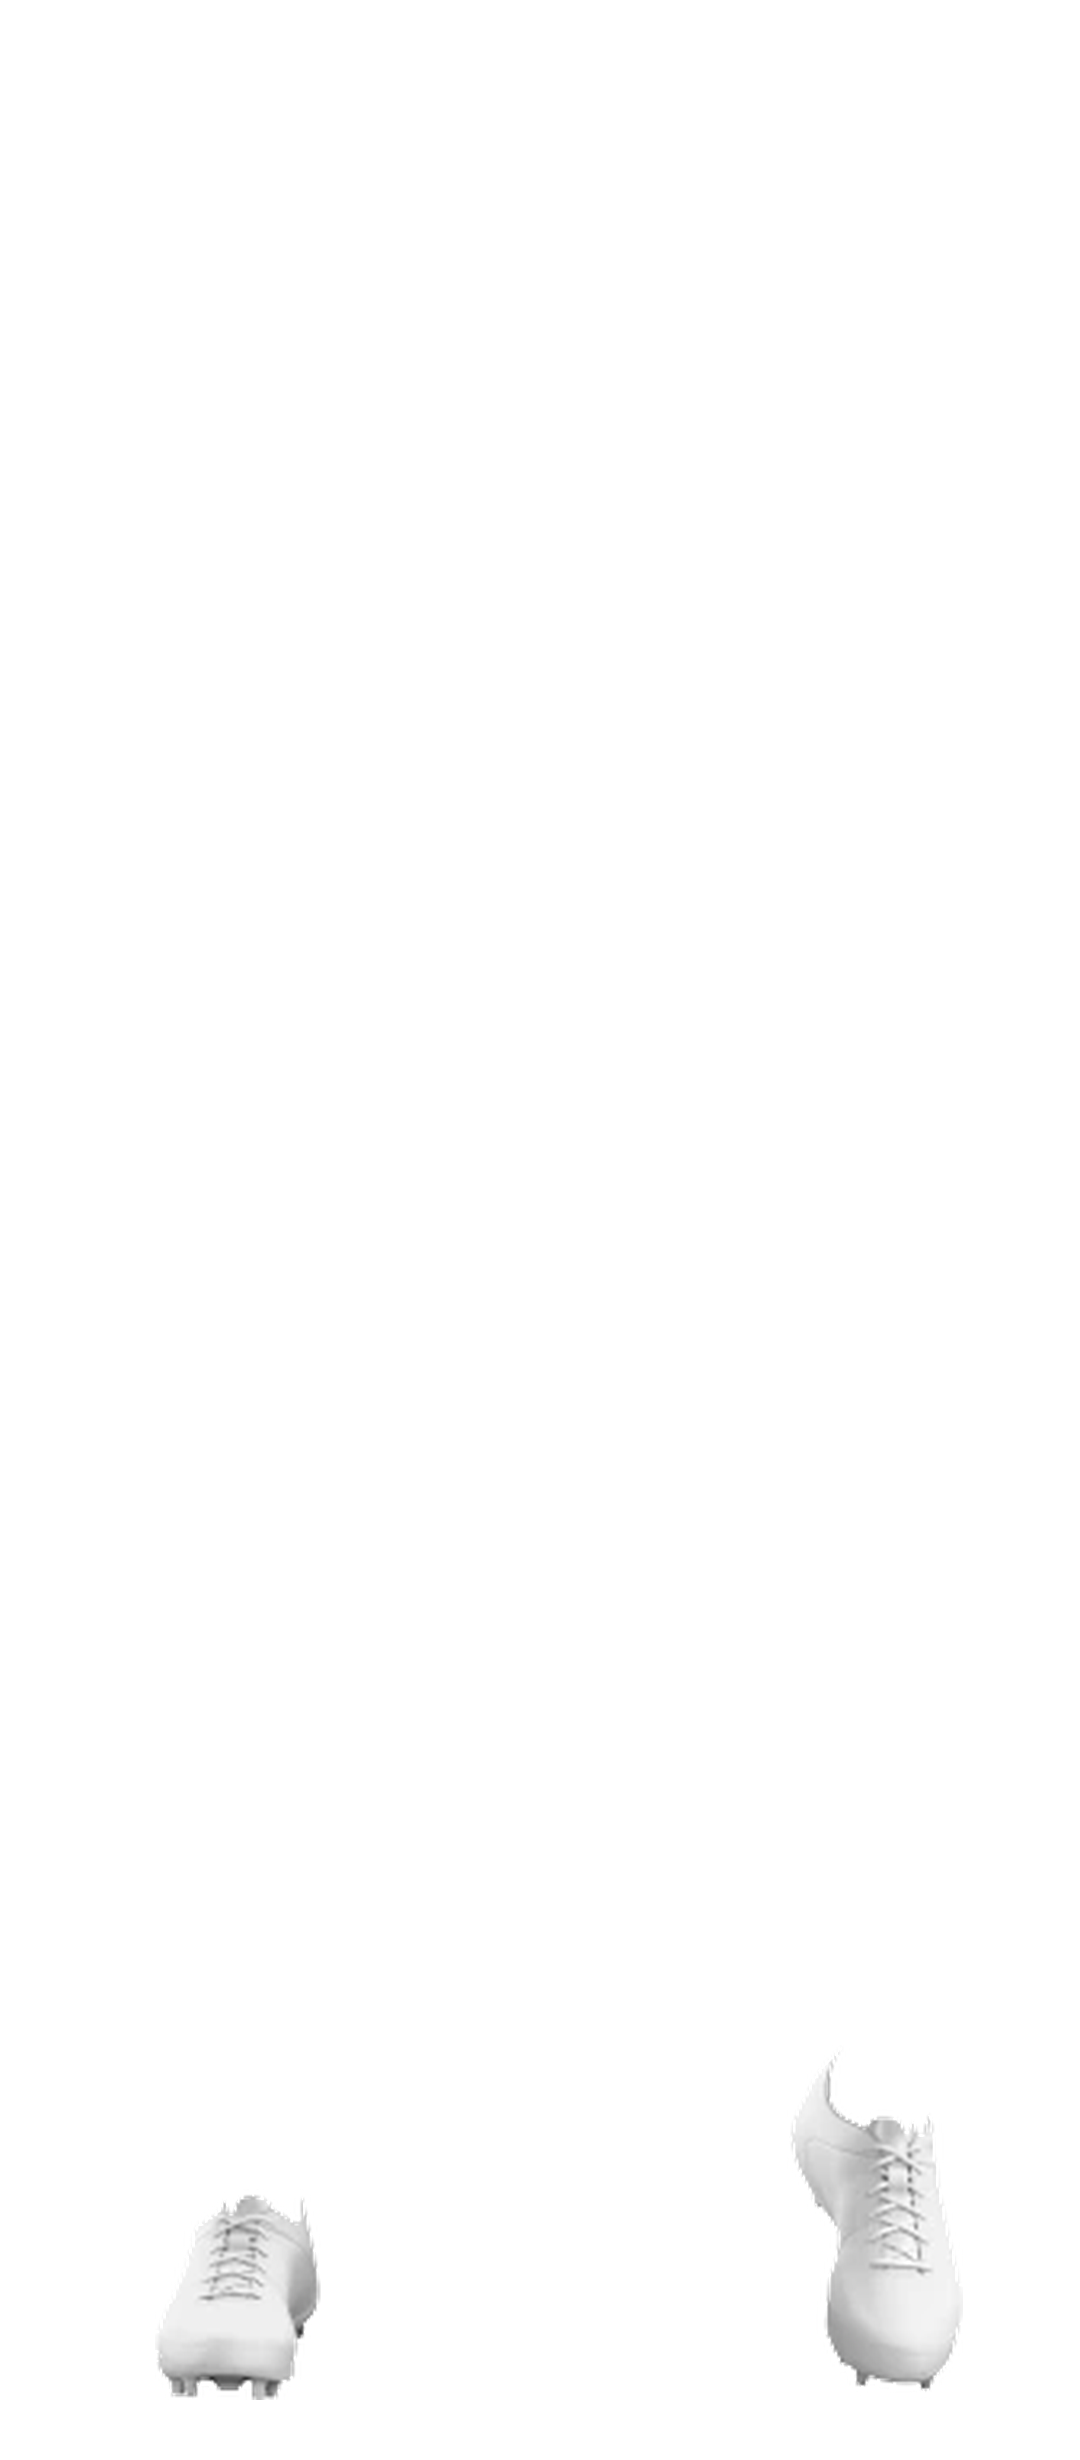
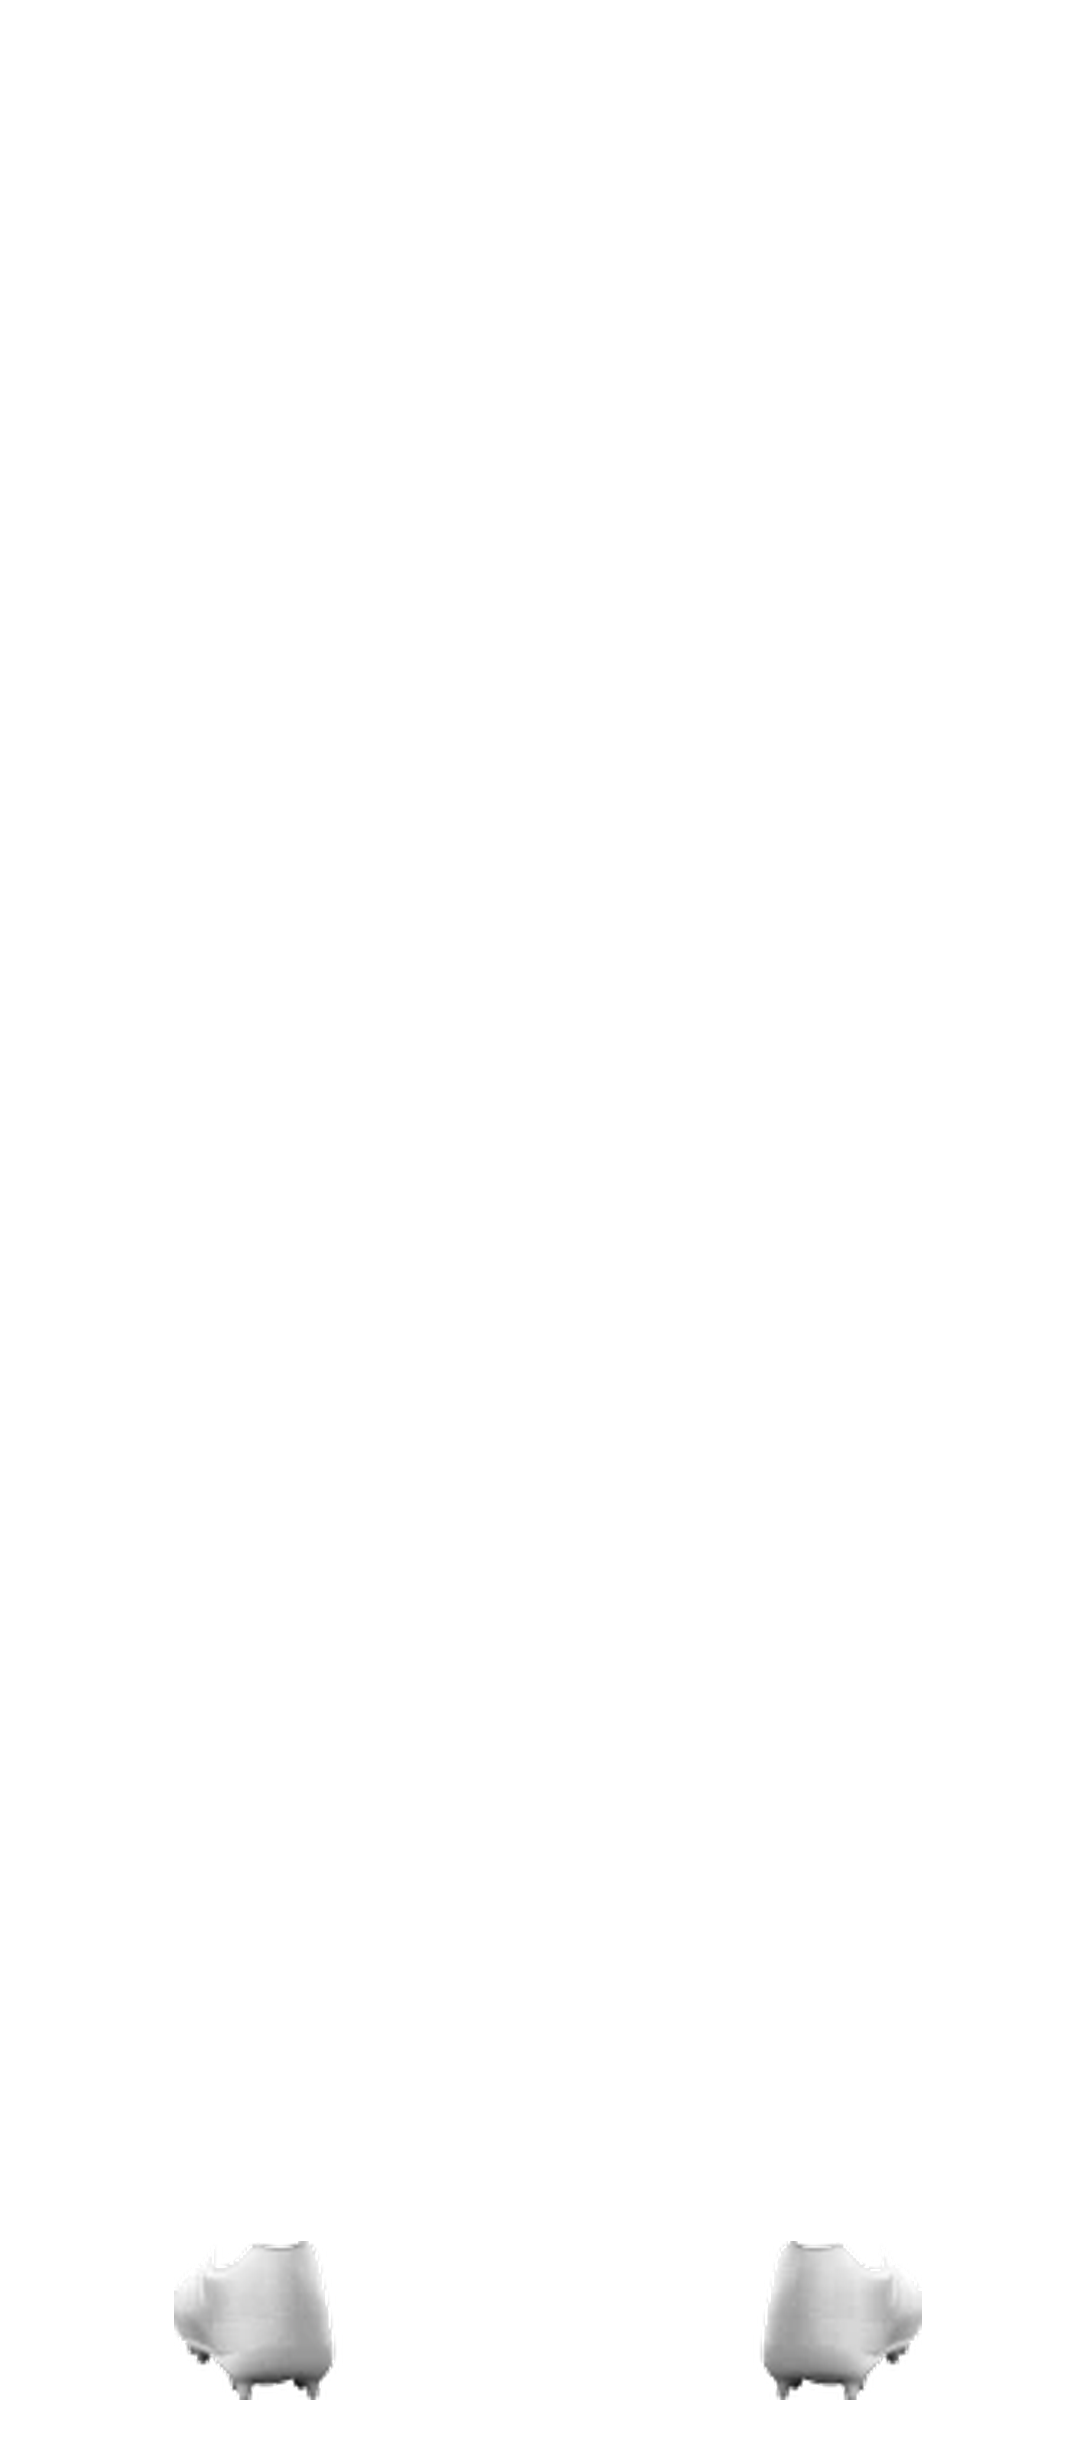
Botas de costas originais; meias do verso entram nos calcanhares

Changed region(s): [[0.7028, 0.8341, 0.8861, 0.9886], [0.1528, 0.8959, 0.3056, 0.9886]]

diff --git a/scripts/montar-originais.py b/scripts/montar-originais.py
@@ -73,7 +73,12 @@ def montar(pasta, lado):
         im = escalar(carregar(pasta, peca + sufixo))
         tela = Image.new('RGBA', (W, H), (0, 0, 0, 0))
         x0 = round(135 * M - im.width / 2)
-        y0 = TOPOS[peca] * M
+        topo = TOPOS[peca]
+        # o par de botas do verso é raso (só calcanhares): as meias do
+        # verso descem um pouco para entrar neles
+        if peca == 'meiao' and lado == 'verso':
+            topo += 15
+        y0 = topo * M
         tela.alpha_composite(im, (x0, y0))
         nome_peca = 'camisola' if peca == 'camisa' else peca
         tela.save(f'public/moldes/vestida-{nome_peca}-{lado}.png')
@@ -90,11 +95,9 @@ def montar(pasta, lado):
             print(f'   caixa estampa {lado}: x={xs.min()}, y={cy}, '
                   f'w={xs.max() - xs.min()}, h={y0 + im.height - cy}')
 
-    # botas (sem detalhe_verso.webp, o par de frente serve os dois lados):
-    # na composição original só a bota DE PÉ recebe uma meia; a inclinada é
-    # um adereço pousado ao lado. O par entra INTEIRO (composição intacta),
-    # ancorado pela abertura da bota de pé ao tornozelo da meia esquerda,
-    # com os fundos na linha de chão.
+    # botas: cada lado usa o SEU par original (detalhe / detalhe_verso),
+    # inteiro — composição intacta — ancorado pela abertura da primeira
+    # bota ao tornozelo da meia esquerda, fundos na linha de chão.
     tela_meiao, im_meiao, mx0, my0 = telas['meiao']
     am = np.array(im_meiao.getchannel('A'))
     b1 = blocos(im_meiao)[0]
@@ -104,7 +107,7 @@ def montar(pasta, lado):
     xs = np.where((col[alto:ys[-1] + 1] > 40).any(axis=0))[0]
     tornozelo = mx0 + b1[0] + (xs[0] + xs[-1]) / 2
 
-    par = escalar(carregar(pasta, 'detalhe'))
+    par = escalar(carregar(pasta, 'detalhe' + sufixo))
     bp = blocos(par)[0]
     ap = np.array(par.getchannel('A'))
     colp = ap[:, bp[0]:bp[-1] + 1]
@@ -114,34 +117,11 @@ def montar(pasta, lado):
     abertura = bp[0] + (xsp[0] + xsp[-1]) / 2
 
     tela = Image.new('RGBA', (W, H), (0, 0, 0, 0))
-    if lado == 'frente':
-        # par inteiro: a composição original já casa com as meias da frente
-        x0 = round(tornozelo - abertura)
-        y0 = 600 * M - par.height
-        tela.alpha_composite(par, (x0, y0))
-        print(f'botas-{lado}: par em ({x0},{y0})')
-    else:
-        # as meias do verso são mais abertas que a composição do par:
-        # divide-se (posições apenas) — bota de pé no tornozelo esquerdo,
-        # bota inclinada com a abertura sob a meia direita, ambas no chão
-        cold = am[:, blocos(im_meiao)[1][0]:blocos(im_meiao)[1][-1] + 1]
-        ysd = np.where((cold > 40).any(axis=1))[0]
-        altod = int(ysd[-1] - (ysd[-1] - ysd[0]) * 0.10)
-        xsd = np.where((cold[altod:ysd[-1] + 1] > 40).any(axis=0))[0]
-        tornozelo_dir = mx0 + blocos(im_meiao)[1][0] + (xsd[0] + xsd[-1]) / 2
-
-        alvos_x = (tornozelo, tornozelo_dir)
-        for b, alvo_x in zip(blocos(par), alvos_x):
-            bota = par.crop((b[0], 0, b[-1] + 1, par.height))
-            bota = bota.crop(bota.getchannel('A').getbbox())
-            ab = np.array(bota.getchannel('A'))
-            topo_b = ab[:max(int(ab.shape[0] * 0.15), 4)]
-            xsb = np.where((topo_b > 40).any(axis=0))[0]
-            x0 = round(alvo_x - (xsb[0] + xsb[-1]) / 2)
-            y0 = 600 * M - bota.height
-            tela.alpha_composite(bota, (x0, y0))
-            print(f'botas-{lado}: bota em ({x0},{y0}) {bota.width}x{bota.height}')
+    x0 = round(tornozelo - abertura)
+    y0 = 600 * M - par.height
+    tela.alpha_composite(par, (x0, y0))
     tela.save(f'public/moldes/botas-{lado}.png')
+    print(f'botas-{lado}: par em ({x0},{y0}) {par.width}x{par.height}')
 
 if __name__ == '__main__':
     pasta = sys.argv[1]
